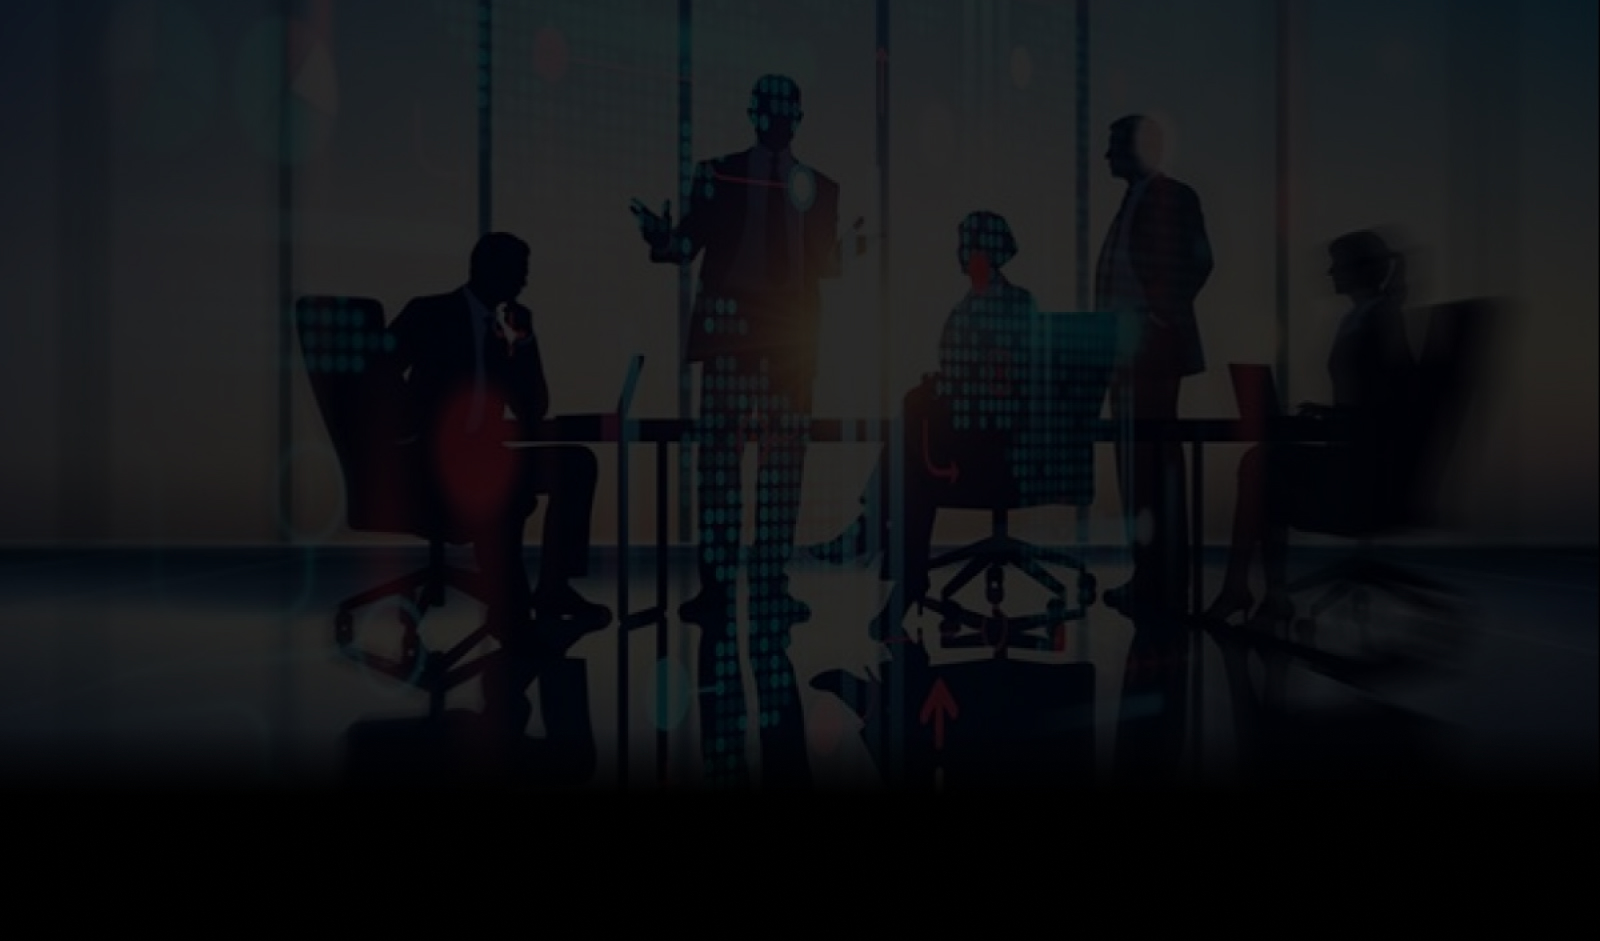
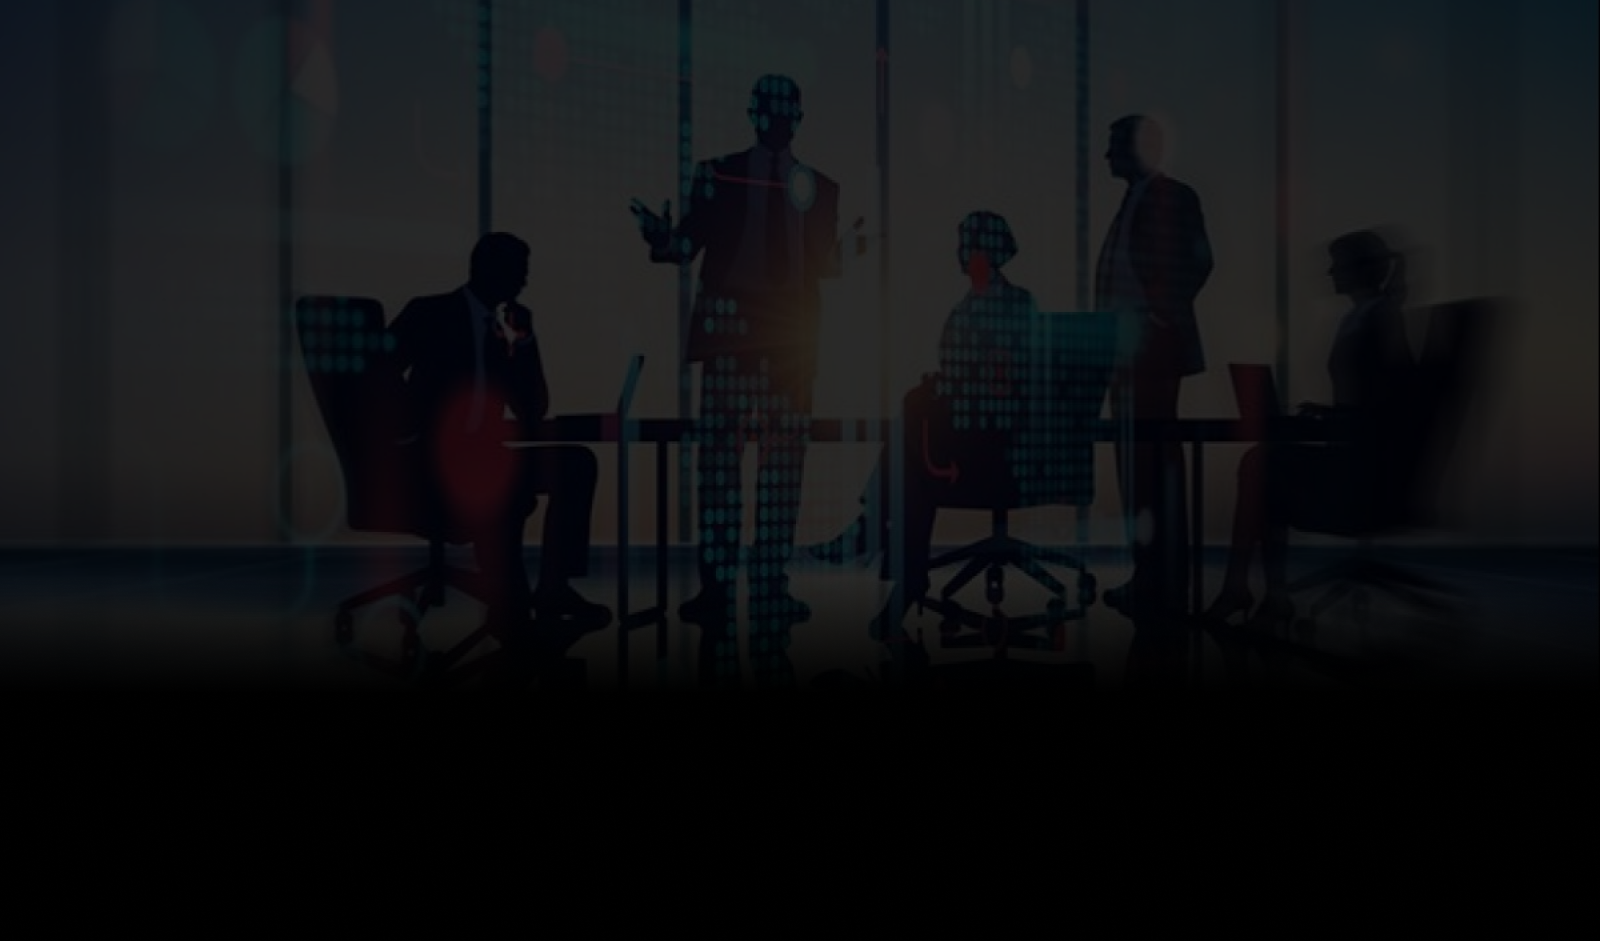
Небольшие правки
Проблема с изображением фоновым

Changed region(s): [[0.0, 0.678, 0.625, 0.8013], [0.6875, 0.7088, 0.7188, 0.7705], [0.8125, 0.7088, 0.8438, 0.7396]]

diff --git a/css/style.css b/css/style.css
@@ -71,6 +71,8 @@
 	min-height: 941px;
 	background: url(../image/promo_img1.png) no-repeat;
 	background-size: cover;
+	background-position: center 20%;
+	/* background-position: center center; */
 	
 }
 
